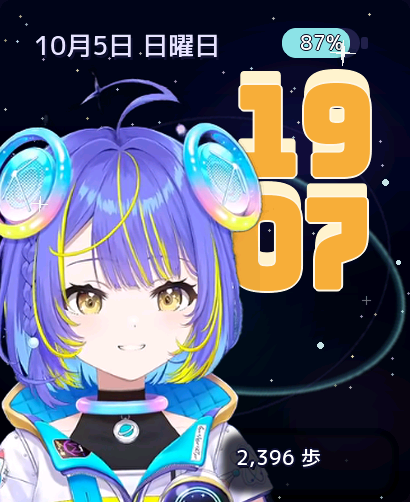
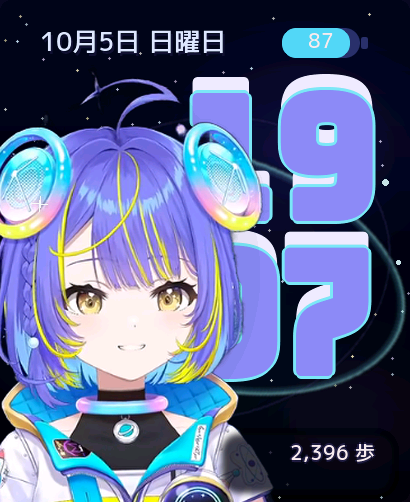
docs: 右揃え/中央寄せと数字 156px の作り方を記録
- theme-format: 右/下基準は文字量に依らず揃う、font 8..200、テキストの w は中央寄せ
- theme-guide: --size 156 の例と、右端いっぱいにするときの条件
- roadmap T33 / handoff: 2 回目の指摘と settle 修正

Changed region(s): [[0.439, 0.0299, 0.9366, 0.7769], [0.0878, 0.0598, 0.5561, 0.1195], [0.5561, 0.8665, 0.9366, 0.9562]]

diff --git a/docs/roadmap.md b/docs/roadmap.md
@@ -899,6 +899,23 @@ T14 の「要判断」4件は変更しない。行の補足テキストを -14px
   広げ、テキストを x=236 で中央寄せ (右端 377 = 余白 32 の内側)。
 - 検証: core 232 件、sim 監査 0 件 (再撮影)、firmware build、実機書き込み。
 
+2 回目の指摘 (2026-10-25: 数字の右が空いている/色がそぴあっぽくない/
+電池 % が中央でない/% は不要/歩数は右揃え):
+- 数字: 156px (`--size 156`, yscale 1.14) に拡大。x=−32 の右揃えではなく
+  安全域基準で x=181 (箱の右端 376) に置き、右端近くまで使う。
+- 色: 立ち絵の主要色 (k-means) に合わせて塗り #8E8AF0 (ペリウィンクル)、
+  上光 #EFE9FF、縁取り #7FE4F7 (彼女のシアン)。日付は #D9E6FF。
+- 電池: `%` をやめ数値だけに。テキスト要素の `w` で枠を固定して中央寄せ
+  (w=78 をゲージと同じ矩形に)。
+- 歩数: `x:-32, y:-32` の右端/下端基準 (右揃え) 。
+- 判明した不具合と修正:
+  - 右/下基準の要素は空ラベルのサイズで align されるため、テキスト確定後に
+    画面外へはみ出していた → `settle()` でテキスト確定後に絶対座標で置し直す。
+  - その後のクランプも `lv_obj_set_pos` だけでは align 再適用で戻される
+    → 位置は `LV_ALIGN_TOP_LEFT` の絶対座標で確定させる。
+  - `font` の許可値を列挙から範囲 (8..200) に変更。
+- 検証: sim 監査 0 件、core 232 件、firmware build、実機書き込み。
+
 状態: 実機で見た目確認待ち
 
 ## 第2弾の実施順

diff --git a/docs/theme-format.md b/docs/theme-format.md
@@ -269,8 +269,14 @@ v2 は zip 自体をそのまま配置するので上限 = パーティション
 - 要素: `time` `date` `steps` `battery` `notify` `bubble` `chara`
   (+ v6: `time_h` `time_m` `battery_gauge`。下の「v6 キー詳細」参照)。
 - `x`/`y` は要素左上の座標。**負値は右端/下端基準** (`x:-30` = 右から30px)。
-- `font` は px サイズ (`fonts.digits` 等の差替えフォントがあればそれが優先)。
+  テキストはサイズ確定後に再配置されるので、右/下揃えでも文字量で
+  ずれない (歩数など数字の桁数が変わるものはこちらを使う)。
+- `font` は px サイズ (8..200)。76 以下は本文/小数字スロット、超えると数字
+  スロットに落ちる (`fonts.digits` の差し替えフォントがあればそれが優先)。
 - `w`/`h` で枠サイズを固定できる (0/省略 = 内容に合わせる)。
+  テキスト要素で `w` を指定すると、その幅の中で中央寄せになる
+  (ゲージの内側に % を重ねるときなど)。ただし影/縁取り/上光を併用した
+  要素はチェーンの都合で内容幅のままなので、単体ラベルで使う。
 - `chara.img` で立ち絵を指定 (省略時 `images.face_chara`)。
   `chara` の画像は**最初に描かれる**ので、テキスト要素は立ち絵の上に重なる
   (2026-10-25 以降)。立ち絵は `face_layout.chara.img` なら最大 410x502 まで

diff --git a/docs/theme-guide.md b/docs/theme-guide.md
@@ -93,9 +93,12 @@ powermenu alarm notifications media agent alert` と `"*"`。
   数字が揺れる。`python3 tools/font_mono.py in.ttf out.ttf` で等幅化してから
   binfont にする (例: Bungee → sopia の digits_112.bin)
 - **数字を縦に伸ばす**: `font_mono.py --yscale 1.14` でグリフだけ背高にできる
-  (幅は変わらないので、大きくしても横に広がらない)。その後 `--size 112` で
-  binfont 化し、`face_layout` の `font` に **112** を書く
-  (`font` は 20/26/56/96/112 のいずれか。96 以下は従来のスロット、112 は数字用の大きいスロット)
+  (幅は変わらないので、大きくしても横に広がらない)。その後 `--size 156` で
+  binfont 化し、`face_layout` の `font` に **156** を書く
+  (`font` は 8..200 px。76 超は数字スロット、小さい値は本文/小数字)
+- **数字を大きくするほど**: 右端/下端基準 (`x:-32`) で置くと桁数に依らず
+  端が揃う。数字を右端いっぱいにするときは、文字の箱が `x2 <= 377`
+  (余白 32px) に入るサイズを選ぶ
 - **マスコット / 文字盤**: `mascot` / `face_layout` (書式は theme-format.md)
 - **時刻を分けて組む**: `face_layout` の `time_h` / `time_m` に分けると
   「19」と「07」を別々の位置・大きさで置ける (縦積みも可)

diff --git a/docs/handoff.md b/docs/handoff.md
@@ -40,6 +40,12 @@
   `tools/font_mono.py --yscale` でグリフを縦に伸ばせる (Bungee 112px + 1.14
   → 縦長数字)。電池は `battery` (テキスト) を `battery_gauge` の矩形に重ねて
   % を内側に出す (gauge を先に作るのでテキストが上になる)。
+- 同日追加 (v6.3): `font` は 8..200 の任意 px (列挙をやめた)。テキスト要素の
+  `w` は枠幅 = その中で中央寄せ (ゲージに重ねる数値用)。右/下基準の要素は
+  テキスト確定後に絶対座標で置し直す (`settle()`) — 空ラベルの align で
+  画面外にはみ出していた不具合の修正。クランプ後の位置も `LV_ALIGN_TOP_LEFT`
+  で確定させないとレイアウト時に align で戻される。
+  電池の表示は `%` を外して数値のみ。
   **注意**: 実機の assets に入っている cute.zip は、リポジトリの `android/.../themes/cute.zip`
   より古い (bg.png が b6dd640 以前のもの)。必要なら assets イメージを作り直して書く。
 - 2026-10-19 に描画を作り直した (T29)。standard テーマで全面再描画 85〜112ms → 40〜68ms。
